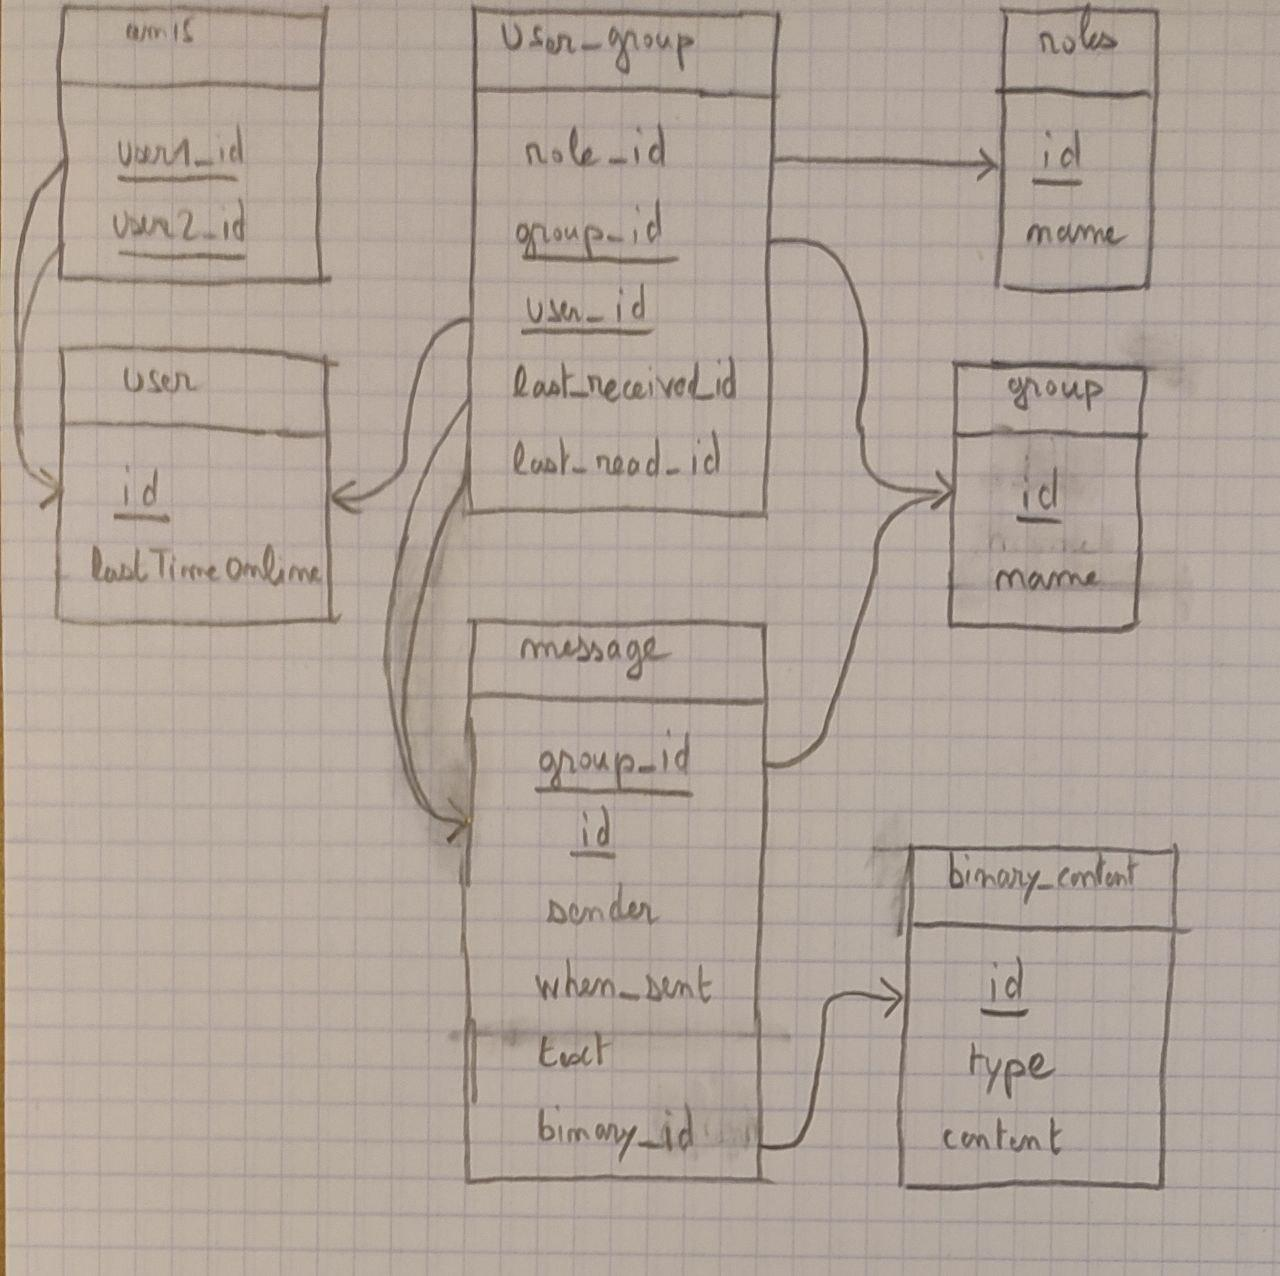
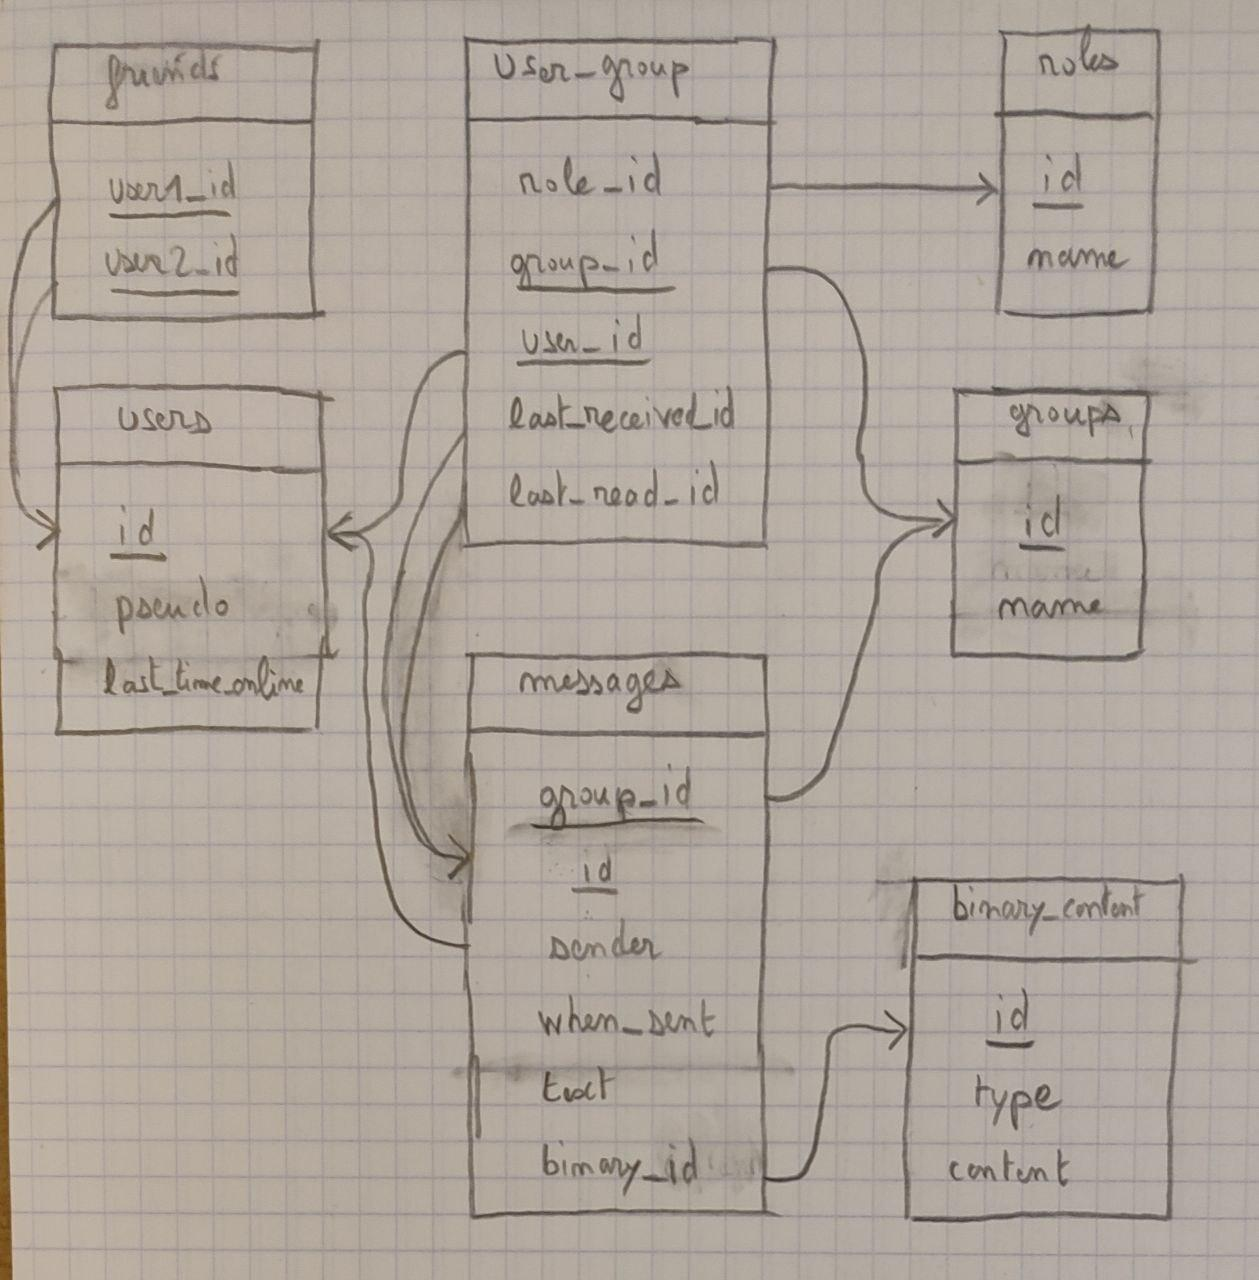
update conception

Changed region(s): [[0.0, 0.0, 0.9603, 0.9781], [0.0, 0.6724, 0.031, 1.0]]

diff --git a/readme.md b/readme.md
@@ -4,6 +4,7 @@
 [<img src="schema_bdd.jpg" width="400"/>](schema_bdd.jpg)
 ### User
 - **id (int)**: numéro identifiant l'utilisateur de manière unique
+- pseudo (String): pseudonyme  de l'utilisateur
 - lastTimeOnLine (DateTime): dernière fois où le user était en ligne
 - groupList (groupe[]): liste des groupes auquel il appartient
 
@@ -36,7 +37,7 @@
 - type (String): type du contenu binaire
 - content (byte[]): contenu binaire
 
-### Amis (table d'association)
+### Fiends (table d'association)
 - **user1_id** (int)
 - **user2_id** (int)
 
